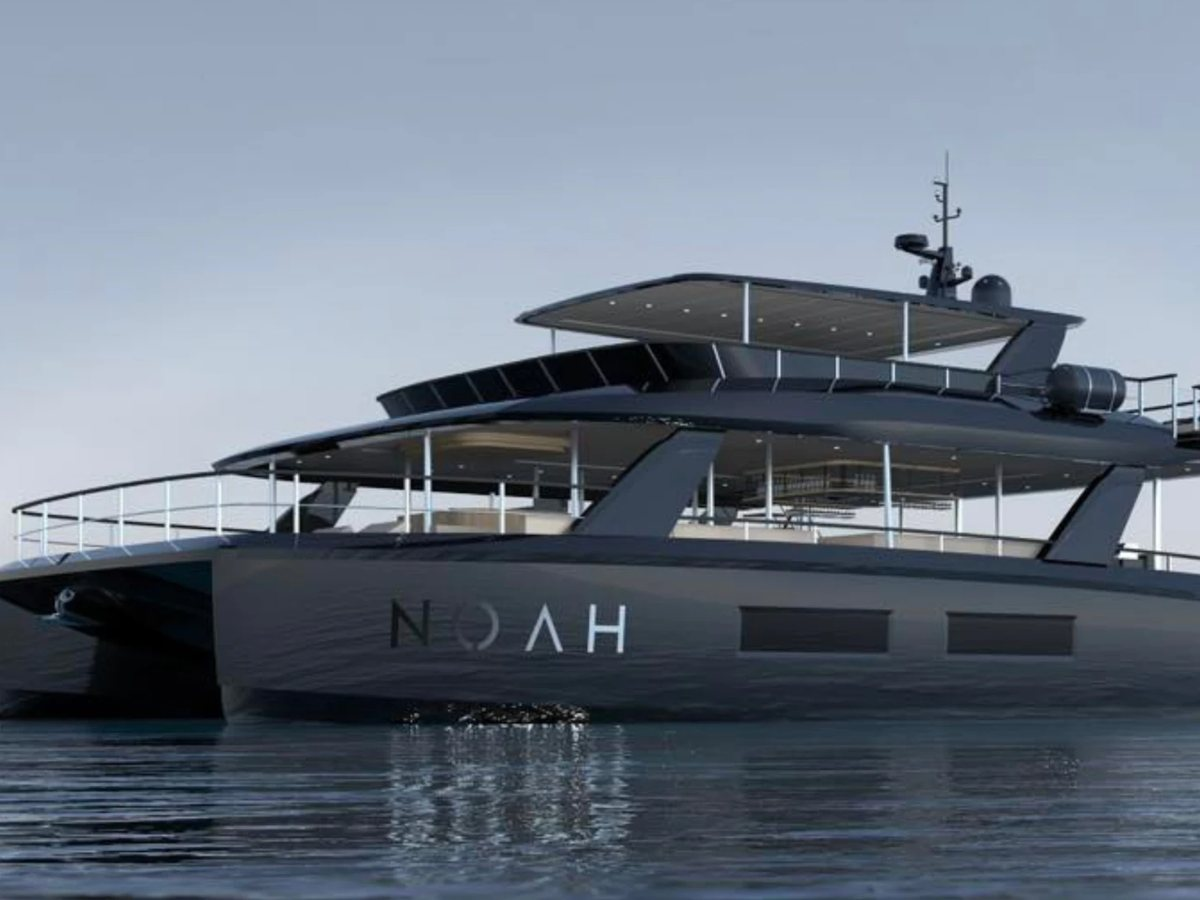
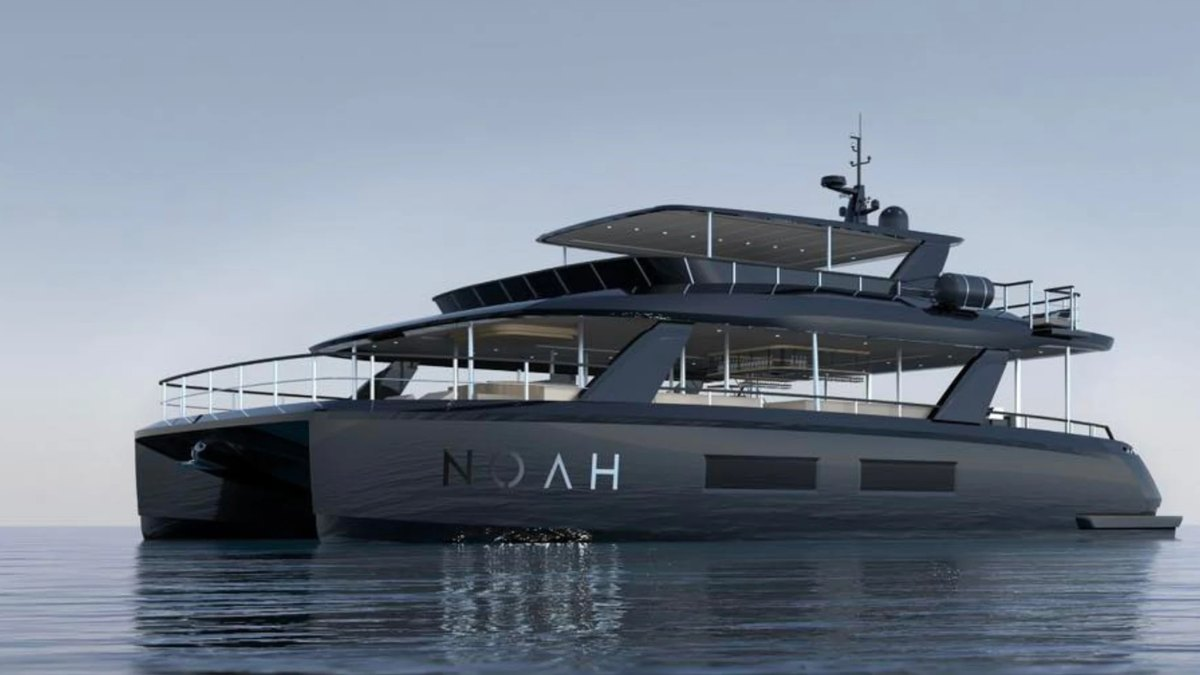
Fix Noah Yacht Club photo appearing too zoomed/cropped
The previous version pre-cropped the 16:9 source photo to exactly 4:3
to fill the card via object-fit:cover, which necessarily cut off the
sides of the boat (mast near the top edge, hull near the left/right
edges) — feedback was that it looked too zoomed in.

Switched to showing the full, uncropped photo via object-fit:contain
with a dark letterbox background (var(--surface-1), matching the
card's own background) instead of cropping to fill the box. Re-exported
the source assets at their native 16:9 ratio (1200x675 / 500x281)
rather than the previous 4:3 crop.

For the WordPress client-grid template (shared by all 53 clients via
ldm_render_client_groups()), added an optional per-client 'fit' key
(defaults to 'cover', unchanged for every other client) so only the
Noah entry switches to contain — page-work.php sets 'fit' => 'contain'
for that one entry.

diff --git a/site/work.html b/site/work.html
@@ -176,7 +176,7 @@
       <div class="ldm-client-photo-grid">
         <div class="ldm-client-card reveal">
           <div class="card-image" style="aspect-ratio:4/3;">
-            <img src="assets/img/clients/noah-yacht-thumb.jpg" alt="Noah Yacht Club client work" loading="lazy" width="500" height="375" style="width:100%;height:100%;object-fit:cover;">
+            <img src="assets/img/clients/noah-yacht-thumb.jpg" alt="Noah Yacht Club client work" loading="lazy" width="500" height="281" style="width:100%;height:100%;object-fit:contain;background:var(--surface-1);">
           </div>
           <div class="name">Noah Yacht Club</div>
           <div class="type">Yacht Club</div>

diff --git a/site/index.html b/site/index.html
@@ -283,7 +283,7 @@
       <a href="case-study.html" class="ldm-case reveal">
         <div class="ldm-case-media">
           <span class="badge">Yacht Club</span>
-          <img src="assets/img/clients/noah-yacht-case.jpg" alt="Noah Yacht Club performance marketing case study" loading="lazy" width="1200" height="900">
+          <img src="assets/img/clients/noah-yacht-case.jpg" alt="Noah Yacht Club performance marketing case study" loading="lazy" width="1200" height="675" style="object-fit:contain;">
         </div>
         <div class="ldm-case-body">
           <div class="ldm-case-title"><span class="title-text">Noah Yacht Club</span> <span class="arrow">&rarr;</span></div>

diff --git a/wordpress-theme/liam-digital-marketing/page-work.php b/wordpress-theme/liam-digital-marketing/page-work.php
@@ -74,7 +74,7 @@ $ldm_flagship_cases = array(
 
 $ldm_client_groups = array(
 	'Hospitality & Nightlife' => array(
-		array( 'name' => 'Noah Yacht Club', 'type' => 'Yacht Club', 'img' => get_template_directory_uri() . '/assets/img/clients/noah-yacht-thumb.jpg', 'alt' => 'Noah Yacht Club client work' ),
+		array( 'name' => 'Noah Yacht Club', 'type' => 'Yacht Club', 'img' => get_template_directory_uri() . '/assets/img/clients/noah-yacht-thumb.jpg', 'alt' => 'Noah Yacht Club client work', 'fit' => 'contain' ),
 		array( 'name' => 'Tabu Bali', 'type' => 'Restaurant & Supperclub', 'img' => 'https://images.unsplash.com/photo-1543007630-9710e4a00a20?q=80&w=500&auto=format&fit=crop', 'alt' => 'Tabu Bali client work' ),
 		array( 'name' => 'Carpe Diem', 'type' => 'Beach Restaurant, Beach Club, Pool Party', 'img' => 'https://images.unsplash.com/photo-1436076863939-06870fe779c2?q=80&w=500&auto=format&fit=crop', 'alt' => 'Carpe Diem client work' ),
 		array( 'name' => 'The Beach by Ours', 'type' => 'Beach Restaurant, Beach Club', 'img' => 'https://images.unsplash.com/photo-1508614999368-9260051292e5?q=80&w=500&auto=format&fit=crop', 'alt' => 'The Beach by Ours client work' ),

diff --git a/wordpress-theme/liam-digital-marketing/inc/template-helpers.php b/wordpress-theme/liam-digital-marketing/inc/template-helpers.php
@@ -66,10 +66,16 @@ function ldm_render_client_groups( $groups ) {
 		<div class="ldm-client-group reveal">
 			<h4><?php echo esc_html( $title ); ?></h4>
 			<div class="ldm-client-photo-grid">
-				<?php foreach ( $clients as $client ) : ?>
+				<?php foreach ( $clients as $client ) :
+					$fit = empty( $client['fit'] ) ? 'cover' : $client['fit'];
+					$img_style = 'width:100%;height:100%;object-fit:' . esc_attr( $fit ) . ';';
+					if ( 'contain' === $fit ) {
+						$img_style .= 'background:var(--surface-1);';
+					}
+				?>
 					<div class="ldm-client-card reveal">
 						<div class="card-image" style="aspect-ratio:4/3;">
-							<img src="<?php echo esc_url( $client['img'] ); ?>" alt="<?php echo esc_attr( $client['alt'] ); ?>" loading="lazy" width="500" height="375" style="width:100%;height:100%;object-fit:cover;">
+							<img src="<?php echo esc_url( $client['img'] ); ?>" alt="<?php echo esc_attr( $client['alt'] ); ?>" loading="lazy" width="500" height="375" style="<?php echo esc_attr( $img_style ); ?>">
 						</div>
 						<div class="name"><?php echo esc_html( $client['name'] ); ?></div>
 						<?php if ( ! empty( $client['type'] ) ) : ?>

diff --git a/wordpress-theme/liam-digital-marketing/front-page.php b/wordpress-theme/liam-digital-marketing/front-page.php
@@ -227,7 +227,7 @@ $ldm_img = get_template_directory_uri();
       <a href="<?php echo esc_url( home_url( '/case-study/' ) ); ?>" class="ldm-case reveal">
         <div class="ldm-case-media">
           <span class="badge">Yacht Club</span>
-          <img src="<?php echo esc_url( $ldm_img . '/assets/img/clients/noah-yacht-case.jpg' ); ?>" alt="Noah Yacht Club performance marketing case study" loading="lazy" width="1200" height="900">
+          <img src="<?php echo esc_url( $ldm_img . '/assets/img/clients/noah-yacht-case.jpg' ); ?>" alt="Noah Yacht Club performance marketing case study" loading="lazy" width="1200" height="675" style="object-fit:contain;">
         </div>
         <div class="ldm-case-body">
           <div class="ldm-case-title"><span class="title-text">Noah Yacht Club</span> <span class="arrow">&rarr;</span></div>
